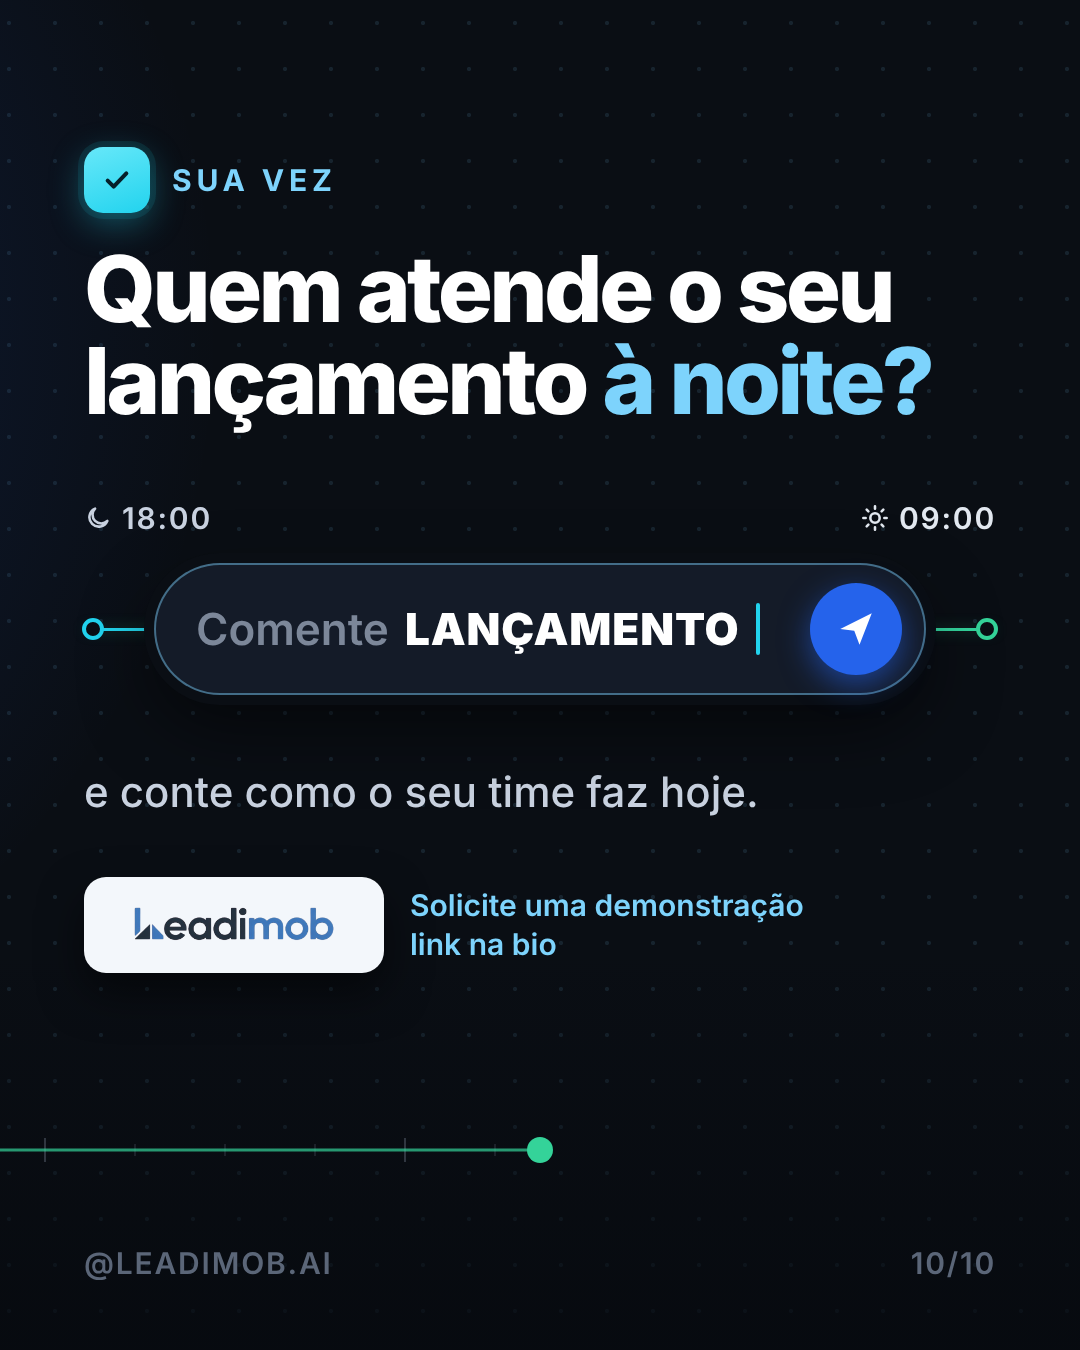
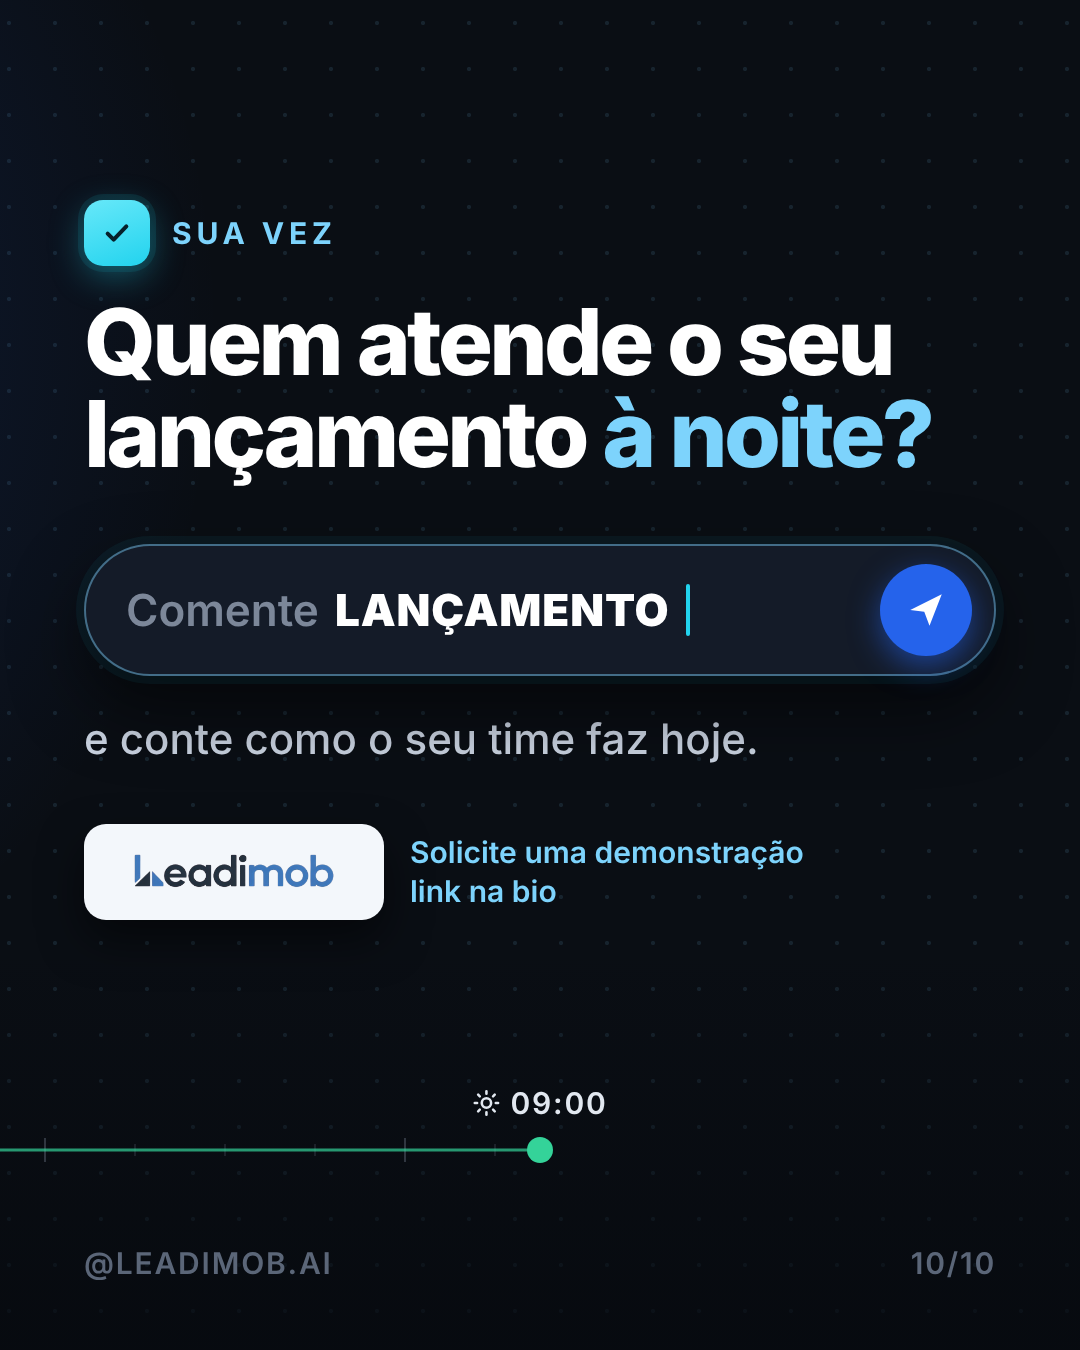
13/10: carrossel polimento final (crítica do corte final em andamento)
Claude-Session: https://claude.ai/code/session_01JjZ4VSMxvLW1vAoakARv9m

diff --git a/instagram/2026-10-13/src/c1-index.html b/instagram/2026-10-13/src/c1-index.html
@@ -150,13 +150,13 @@ body{background:#0A0E14;width:10800px;height:1350px;overflow:hidden;font-family:
      </g>
      <g stroke="#ECF6F9" stroke-width="6"><path d="M60 5H200M60 245H200M340 245H490M340 5H490M620 5H710"/></g>
      <g stroke="#0B5C73" stroke-width="2.5"><path d="M60 1H200M60 9H200M60 241H200M60 249H200M340 241H490M340 249H490M340 1H490M340 9H490M620 1H710M620 9H710"/></g>
-     <g fill="#0B5C73" font-family="IN" font-weight="600" font-size="30" text-anchor="middle" stroke="none">
+     <g fill="#0B5C73" font-family="IN" font-weight="600" font-size="32" text-anchor="middle" stroke="none">
       <text x="137" y="76">Quarto</text><text x="137" y="196">Quarto</text><text x="415" y="136">Sala</text><text x="672" y="58">Cozinha</text><text x="660" y="214">WC</text>
      </g>
     </svg>
    </div>
-   <div style="padding:16px 14px 0;font-size:35px;white-space:nowrap">Planta do 2 quartos. <span style="font-weight:600;color:#fff">Quer ver o decorado?</span></div>
-   <div class="bt" style="padding-right:14px;font-size:30px"><svg class="tk" viewBox="0 0 34 22"><path d="M2 12l6 6L20 4M14 18l12-14" stroke="#53BDEB" stroke-width="3" fill="none" stroke-linecap="round" stroke-linejoin="round"/></svg></div>
+   <div style="padding:16px 14px 0;font-size:35px;white-space:nowrap">A planta de 2 quartos. <span style="font-weight:600;color:#fff">Quer ver o decorado?</span></div>
+   <div class="bt" style="padding-right:14px;font-size:30px">22:41 <svg class="tk" viewBox="0 0 34 22"><path d="M2 12l6 6L20 4M14 18l12-14" stroke="#53BDEB" stroke-width="3" fill="none" stroke-linecap="round" stroke-linejoin="round"/></svg></div>
   </div>
  </div>
  <div class="ttl" style="margin-top:50px"><div class="num">2</div><div class="kick">Fora do horário</div></div>
@@ -225,11 +225,11 @@ body{background:#0A0E14;width:10800px;height:1350px;overflow:hidden;font-family:
  <div class="h2">A Leadimob atende <span style="color:#6EE7B7">quando o plantão fecha</span>.</div>
  <div class="art" style="position:relative;padding-left:70px">
   <div style="position:absolute;left:21px;top:20px;bottom:24px;width:3px;border-radius:2px;background:linear-gradient(180deg,rgba(34,211,238,.75),rgba(52,211,153,.85))"></div>
-  <div class="nt-row" style="position:relative;font:700 30px/1 IN;letter-spacing:.14em;color:#7C8799;margin-bottom:26px"><i class="nd" style="border-color:#22D3EE"></i>22:40 · NA MESMA NOITE</div>
+  <div class="nt-row" style="position:relative;font:700 30px/1 IN;letter-spacing:.14em;color:#7C8799;margin-bottom:26px">22:40 · NA MESMA NOITE</div>
   <div class="ev2"><i class="nd"></i>Responde com o catálogo</div>
   <div class="ev2"><i class="nd"></i>Qualifica o perfil</div>
   <div class="ev2"><i class="nd"></i>Agenda a visita no plantão</div>
-  <div class="nt-row" style="position:relative;font:700 30px/1 IN;letter-spacing:.14em;color:#7C8799;margin:34px 0 26px"><i class="nd" style="border-color:#34D399"></i>08:50</div>
+  <div class="nt-row" style="position:relative;font:700 30px/1 IN;letter-spacing:.14em;color:#7C8799;margin:34px 0 26px">08:50</div>
   <div class="ev2" style="margin-bottom:0"><i class="nd g"></i>Chama o corretor com o resumo</div>
  </div>
  <div class="foot"><span>@LEADIMOB.AI</span><span>9/10</span></div></div>
@@ -238,18 +238,13 @@ body{background:#0A0E14;width:10800px;height:1350px;overflow:hidden;font-family:
 <div class="sl" style="left:9720px">
  <div class="ttl"><div class="num"><svg width="32" height="32" viewBox="0 0 24 24"><path d="M5 12.500l4.500 4.500L19 7" stroke="#06202A" stroke-width="3" fill="none" stroke-linecap="round" stroke-linejoin="round"/></svg></div><div class="kick">Sua vez</div></div>
  <div class="h2">Quem atende o seu lançamento <span class="hl">à noite?</span></div>
- <div class="art" style="position:relative;height:250px;margin-top:76px">
-  <div style="position:absolute;left:0;top:0;display:flex;align-items:center;gap:10px;font:600 30px/1 IN;letter-spacing:.06em;color:#C9D2E0"><svg width="28" height="28" viewBox="0 0 24 24" fill="none" stroke="#C9D2E0" stroke-width="2.200" stroke-linecap="round" stroke-linejoin="round"><path d="M20 14.500A8 8 0 1 1 9.500 4a6.500 6.500 0 0 0 10.500 10.500z"/></svg>18:00</div>
-  <div style="position:absolute;right:0;top:0;display:flex;align-items:center;gap:10px;font:600 30px/1 IN;letter-spacing:.06em;color:#E2E8F0"><svg width="28" height="28" viewBox="0 0 24 24" fill="none" stroke="#E2E8F0" stroke-width="2.200" stroke-linecap="round"><circle cx="12" cy="12" r="4"/><path d="M12 2v2M12 20v2M4.900 4.900l1.400 1.400M17.700 17.700l1.400 1.400M2 12h2M20 12h2M4.900 19.100l1.400-1.400M17.700 6.300l1.400-1.400"/></svg>09:00</div>
-  <div style="position:absolute;left:0;right:0;top:125px;height:3px;background:linear-gradient(90deg,#22D3EE,#34D399);border-radius:2px;box-shadow:0 0 14px rgba(52,211,153,.35)"></div>
-  <i style="position:absolute;left:-2px;top:115px;width:22px;height:22px;border-radius:50%;background:#0A0E14;border:4px solid #22D3EE"></i>
-  <i style="position:absolute;right:-2px;top:115px;width:22px;height:22px;border-radius:50%;background:#0A0E14;border:4px solid #34D399"></i>
-  <div style="position:absolute;left:70px;right:70px;top:60px;height:132px;border-radius:66px;background:#141B28;border:2px solid rgba(125,211,252,.45);box-shadow:0 0 0 10px #0A0E14,0 30px 70px rgba(0,0,0,.55);display:flex;align-items:center;padding:0 22px 0 40px;gap:16px;font:600 44px IN">
+ <div class="art" style="position:relative;height:132px;margin-top:64px">
+  <div style="position:absolute;left:0;right:0;top:0;height:132px;border-radius:66px;background:#141B28;border:2px solid rgba(125,211,252,.45);box-shadow:0 0 0 8px rgba(34,211,238,.06),0 30px 70px rgba(0,0,0,.55);display:flex;align-items:center;padding:0 22px 0 40px;gap:16px;font:600 44px IN">
    <span style="color:#7C8799">Comente</span><span style="font-weight:900;letter-spacing:.02em">LANÇAMENTO</span><span style="width:4px;height:52px;background:#22D3EE;border-radius:2px"></span>
    <span style="margin-left:auto;width:92px;height:92px;border-radius:50%;background:#2563EB;display:flex;align-items:center;justify-content:center;box-shadow:0 10px 30px rgba(37,99,235,.55)"><svg width="42" height="42" viewBox="0 0 24 24"><path d="M3 12 L21 3 L14 21 L11 13 Z" fill="#fff"/></svg></span>
   </div>
  </div>
- <div class="p" style="margin-top:10px">e conte como o seu time faz hoje.</div>
+ <div class="p" style="margin-top:34px">e conte como o seu time faz hoje.</div>
  <div style="margin-top:56px;display:flex;align-items:center;gap:26px">
   <div style="width:300px;height:96px;border-radius:22px;background:#F3F7FB;display:flex;align-items:center;justify-content:center;box-shadow:0 20px 44px rgba(0,0,0,.5);flex:none"><img src="logo.png" style="width:240px"></div>
   <div style="font:600 30px/1.3 IN;color:#7DD3FC">Solicite uma demonstração<br>link na bio</div>
@@ -279,11 +274,11 @@ body{background:#0A0E14;width:10800px;height:1350px;overflow:hidden;font-family:
  const lab=(x,txt,c,ic)=>M.insertAdjacentHTML('beforeend',`<div style="position:absolute;left:${x}px;top:${Y-62}px;transform:translateX(-50%);display:flex;align-items:center;gap:10px;font:600 30px/1 IN;letter-spacing:.06em;color:${c};white-space:nowrap">${ic||''}${txt}</div>`);
  const moon='<svg width="28" height="28" viewBox="0 0 24 24" fill="none" stroke="#C9D2E0" stroke-width="2.2" stroke-linecap="round" stroke-linejoin="round"><path d="M20 14.500A8 8 0 1 1 9.500 4a6.500 6.500 0 0 0 10.500 10.500z"/></svg>';
  dot(760,'#C9D2E0'); lab(760,'18:00','#C9D2E0',moon);
- dot(1620,'#F59E0B',9);
- const C='#A5F3FC', mk=[[2,'22:40 · lead novo'],[3,'planta enviada'],[4,'perfil'],[5,'visita marcada'],[6,'08:50 · corretor avisado']];
+ dot(1620,'#F59E0B',9); lab(1620,'22:40','#7C8799');
+ const C='#A5F3FC', mk=[[2,'lead novo'],[3,'planta enviada'],[4,'perfil'],[5,'visita marcada'],[6,'08:50 · corretor avisado']];
  mk.forEach(([i,t])=>{const x=i*1080+540;dot(x,'#22D3EE');lab(x,t,C)});
- dot(7*1080+540,'#34D399'); dot(8*1080+540,'#34D399');
- el('circle',{cx:10260,cy:Y,r:13,fill:'#34D399'});
+ dot(7*1080+540,'#34D399'); lab(7*1080+540,'follow-up','#6EE7B7'); dot(8*1080+540,'#34D399'); lab(8*1080+540,'a noite inteira','#6EE7B7');
+ el('circle',{cx:10260,cy:Y,r:13,fill:'#34D399'}); lab(10260,'09:00','#E2E8F0','<svg width="28" height="28" viewBox="0 0 24 24" fill="none" stroke="#E2E8F0" stroke-width="2.2" stroke-linecap="round"><circle cx="12" cy="12" r="4"/><path d="M12 2v2M12 20v2M4.900 4.900l1.400 1.400M17.700 17.700l1.400 1.400M2 12h2M20 12h2M4.900 19.100l1.400-1.400M17.700 6.300l1.400-1.400"/></svg>');
 })();
 window.ready=document.fonts.ready.then(()=>Promise.all(['400 20px IN','500 20px IN','600 20px IN','700 20px IN','800 20px IN','900 20px IN'].map(f=>document.fonts.load(f)))).then(()=>Promise.all([...document.images].map(i=>i.decode().catch(()=>0)))).then(()=>new Promise(r=>setTimeout(r,300)));
 </script></body></html>
